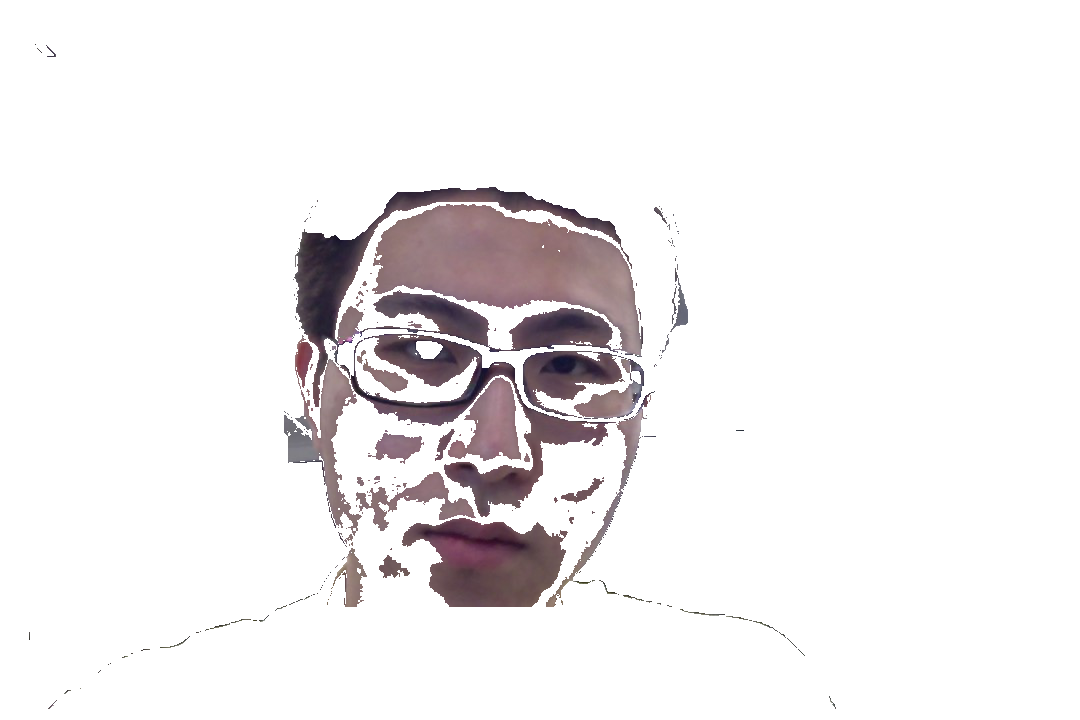
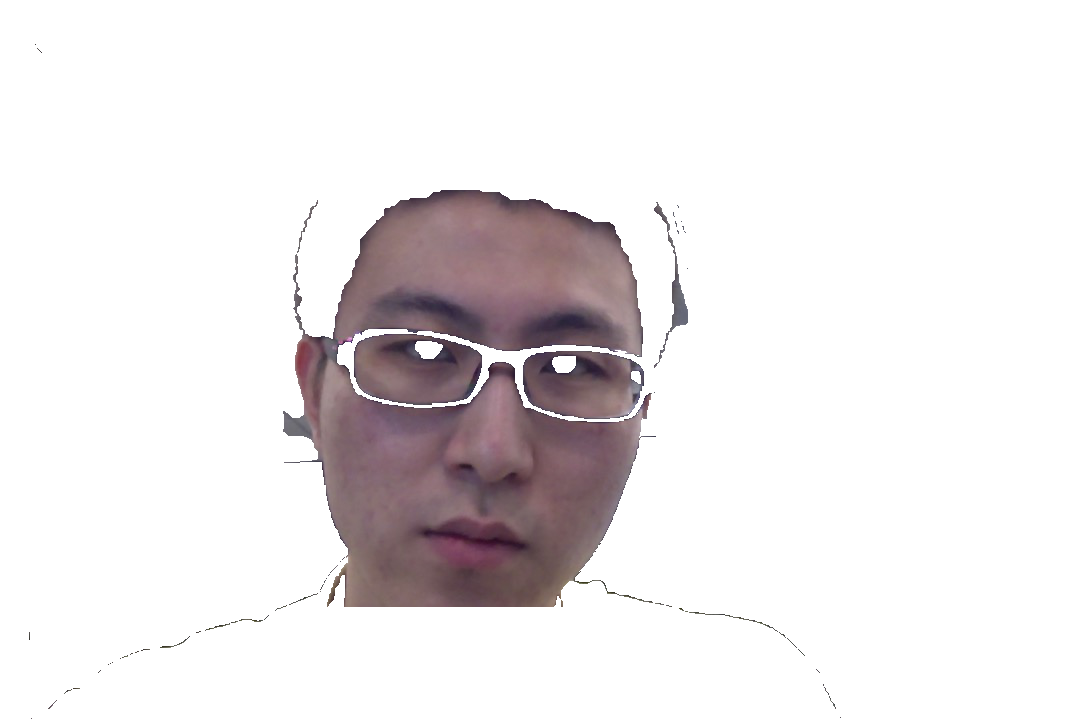
kinda comprehensive version
maybe change the sampling size to decrease influence of noise?

Changed region(s): [[0.2444, 0.2444, 0.5806, 0.8556], [0.6111, 0.3972, 0.6417, 0.4278], [0.5806, 0.55, 0.6111, 0.5806]]

diff --git a/src/face_detect_test/RawClassifier.java b/src/face_detect_test/RawClassifier.java
@@ -7,6 +7,7 @@ import org.opencv.objdetect.CascadeClassifier;
 public class RawClassifier {
 	private Mat my_image = null;
 	private String filename = null;
+	private Rect my_facerect = null;
 	private String classifier_path = "./classifier_data/haarcascade_frontalface_default.xml";
 	public RawClassifier(String in_file){
 		filename = in_file;
@@ -20,6 +21,8 @@ public class RawClassifier {
 			System.out.println("not initialized");
 			return null;
 		}
+		if(my_facerect != null)
+			return my_facerect;
 		//start the detecting
 		System.out.println("\nRunning DetectFaceDemo");
 		CascadeClassifier face_rect_dtect = new CascadeClassifier(classifier_path);
@@ -40,6 +43,7 @@ public class RawClassifier {
 	    String filename = "faceDetection_rect.png";
 	    System.out.println(String.format("Writing %s", filename));
 	    Imgcodecs.imwrite(filename, image);
+	    my_facerect = final_face;
 		return final_face;
 	}
 	
@@ -80,12 +84,10 @@ public class RawClassifier {
 		mask.setTo(new Scalar(Imgproc.GC_PR_BGD));
     	Mat tmp_mask_frt = new Mat(face_rawrange.height, face_rawrange.width, CvType.CV_8U);
     	tmp_mask_frt.setTo(new Scalar(Imgproc.GC_PR_BGD));
-    	System.out.println(matrix.length);
-    	System.out.println(face_rect().height);
     	for(int i=0; i<matrix.length; i++){
     		for(int j=0; j<matrix[0].length; j++){
     			tmp_mask_frt.put(i, j, matrix[i][j]);
-    			System.out.print(matrix[i][j]);
+    			//System.out.print(matrix[i][j]);
     		}
     		//System.out.println();
     	}
@@ -93,12 +95,19 @@ public class RawClassifier {
     	Mat mask_sub_ptr = mask.colRange(face_rawrange.x, face_rawrange.x+face_rawrange.width).
     							rowRange(face_rawrange.y, face_rawrange.y+face_rawrange.height);
     	tmp_mask_frt.copyTo(mask_sub_ptr);
+    	
     	Mat bgdModel = new Mat();
     	Mat fgdModel = new Mat();
+    	double[] old_val = {Imgproc.GC_FGD};
+		double new_val = Imgproc.GC_PR_FGD;
     	//create matrix full of 3, which indicate the foreground.
     	Imgproc.grabCut(my_image, mask, face_rawrange, bgdModel, fgdModel, 8, Imgproc.GC_INIT_WITH_MASK);
     	Mat source = new Mat(my_image.height(), my_image.width(), CvType.CV_8U, new Scalar(Imgproc.GC_PR_FGD));
-    	mask.setTo(new Scalar(Imgproc.GC_PR_FGD), tmp_mask_frt);
+    	for(int i=face_rawrange.x; i<face_rawrange.x+face_rawrange.width; i++)
+    		for(int j=face_rawrange.y; j<face_rawrange.y + face_rawrange.height; j++)
+    			if(mask.get(j, i)[0] == old_val[0])
+    				mask.put(j, i, new_val);
+    	
   
     	Core.compare(mask, source, mask, Core.CMP_EQ);
         Mat foreground = new Mat(my_image.size(), CvType.CV_8UC3, new Scalar(255, 255, 255));

diff --git a/src/face_detect_test/MainFunction.java b/src/face_detect_test/MainFunction.java
@@ -2,7 +2,7 @@ package face_detect_test;
 import org.opencv.core.Core;
 import org.opencv.core.CvType;
 import org.opencv.core.Mat;
-
+import org.opencv.imgproc.Imgproc;
 import org.opencv.core.Core;
 import org.opencv.core.CvType;
 import org.opencv.core.Mat;
@@ -17,8 +17,8 @@ public class MainFunction {
 	    String addr = "test.jpg";
 	    RawClassifier faceDetect = new RawClassifier(addr);
 	    int[] dataOfRec;
-	    dataOfRec = faceDetect.getloc();
-	    System.out.println( dataOfRec[0] + " " + dataOfRec[1]+ " " + dataOfRec[2] + " " + dataOfRec[3] );
+	    dataOfRec = faceDetect.getloc();   // 1st
+	   // System.out.println( dataOfRec[0] + " " + dataOfRec[1]+ " " + dataOfRec[2] + " " + dataOfRec[3] );
 	    colorRecognize testCase = new colorRecognize();
 		testCase.readImg(addr);
 		testCase.readXY(dataOfRec);
@@ -28,51 +28,12 @@ public class MainFunction {
 		testCase.solve();
 		testCase.getHairline();
 		testCase.drawHairline();
-	    faceDetect.face_contour_bymask(testCase.solveForMatrix());
+		short[][] matrix = testCase.solveForMatrix();
+	    faceDetect.face_contour_bymask(matrix);
 		//testCase.writeImgOriginal("output.jpg");
-
 		testCase.writeImg("output.jpg");
-		faceDetect.face_contour_bymask(testCase.solveForMatrix());
 		System.out.println("finished");
+		//System.out.println(Imgproc.GC_BGD);
 	}
 
 }
-
-/*public class testing {
-
-	public static void main(String[] args) {
-		System.loadLibrary( Core.NATIVE_LIBRARY_NAME );
-	    Mat mat = Mat.eye( 3, 3, CvType.CV_8UC1 );
-	    System.out.println( "mat = " + mat.dump() );
-	//    new RawClassifier().face_range();
-	}
-
-}
-
-/*import java.awt.Image;
-import java.awt.Graphics2D;
-import java.awt.image.BufferedImage;
-import java.io.File;
-import java.io.IOException;
-
-import javax.imageio.ImageIO;
-
-public class testing {
-	public static void main(String[] args){
-		imagerecognize testCase = new imagerecognize();
-		testCase.readImg("WIN_20160220_03_09_08_Pro.jpg");
-		int[] facial = new int[]{110 , 60 , 55};
-		testCase.solve(facial, 150);
-		testCase.writeImg("output.jpg");
-		//System.out.print(testCase.getXY(500 , 500));
-	/*	try {
-		    // retrieve image
-		    BufferedImage bi = new BufferedImage(800 , 600 , BufferedImage.TYPE_INT_RGB);
-		    File outputfile = new File("saved.png");
-		    ImageIO.write(bi, "png", outputfile);
-		} catch (IOException e) {
-		}
-*/
-	/*}
-}	
-*/
